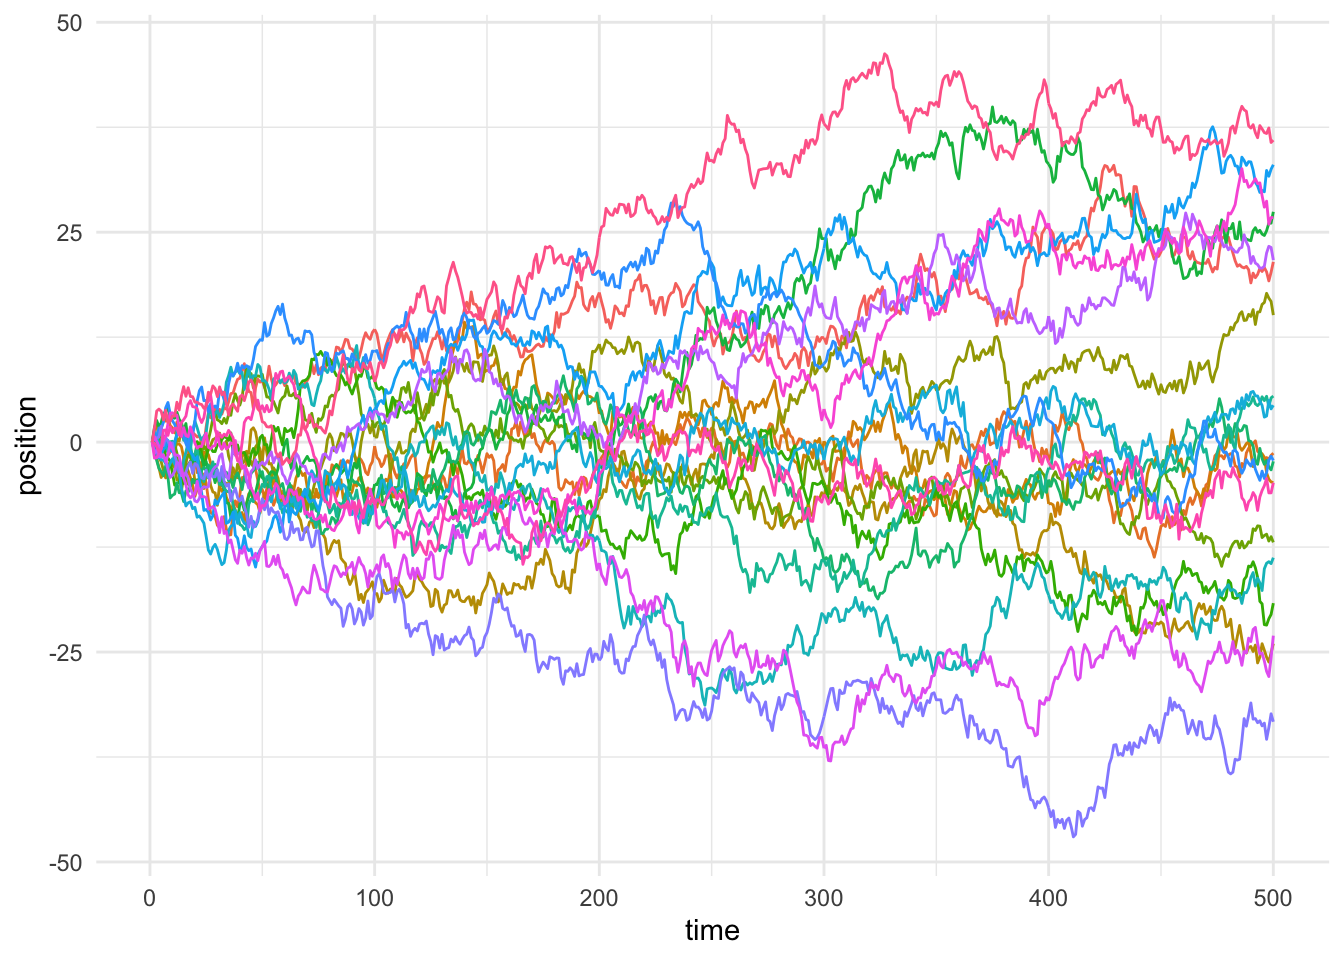
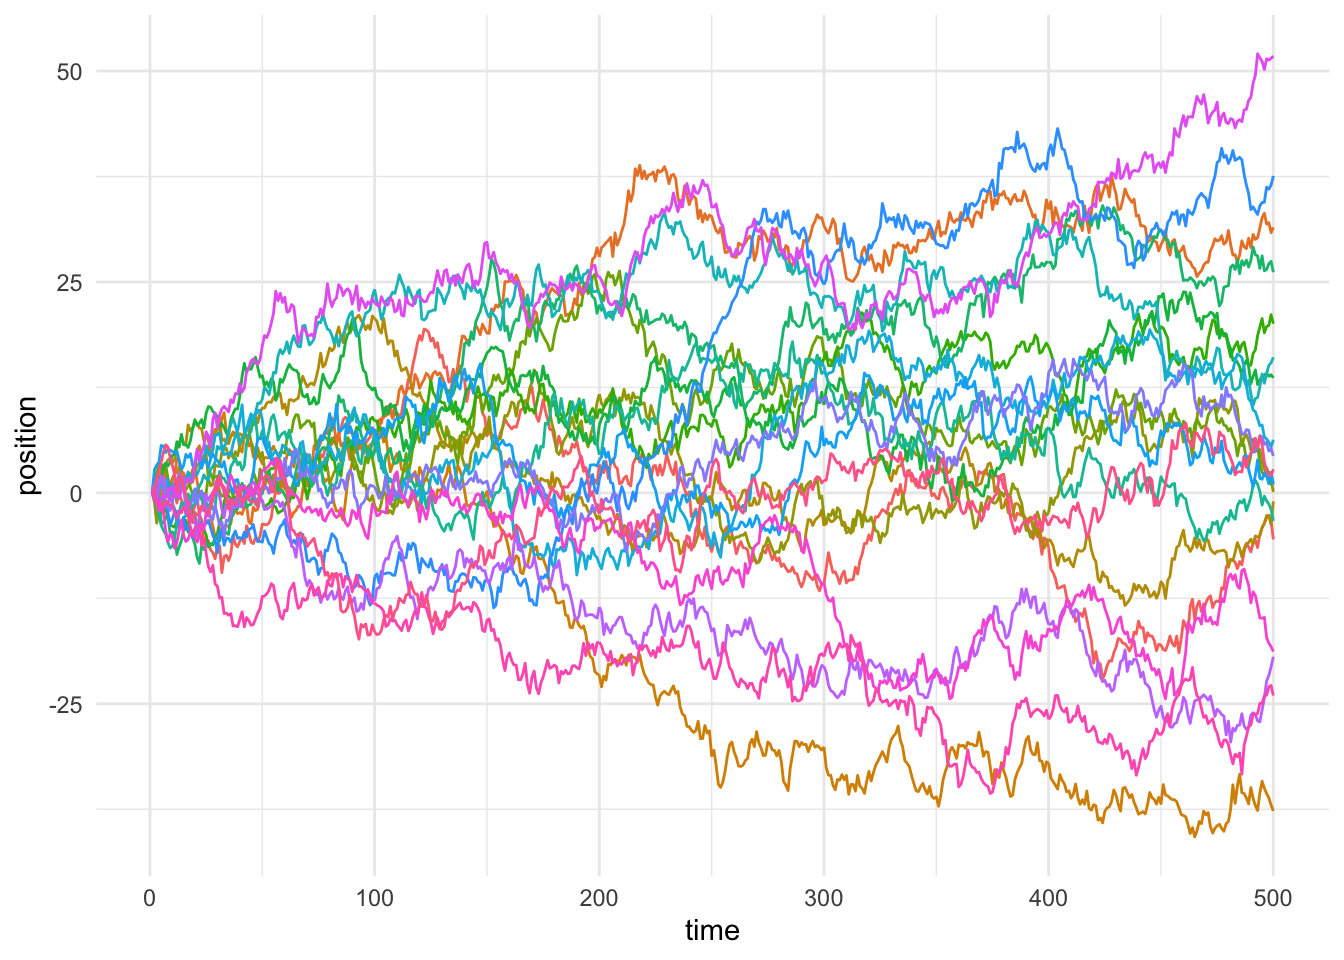
tex

diff --git a/docs/posts/2021-01-13-a-gentle-introduction-to-markov-chains-and-mcmc/index.html b/docs/posts/2021-01-13-a-gentle-introduction-to-markov-chains-and-mcmc/index.html
@@ -255,7 +255,7 @@ ga('send', {
 </section>
 <section id="markov-chains" class="level1">
 <h1>Markov Chains</h1>
-<p>First, what is a Markov Chain? It’s easiest to break it down into it’s component parts. A <strong>Markov Chain</strong> is a <em>chain</em>, or sequence of events, that follow the Markov Property. And the Markov Property is pretty intuitive: The <strong>Markov Property</strong> says that the next state in a sequence (chain) is only dependent on the current state. Statisticians would call this “memorylessness,” and we can write out the property in its true mathematical form below, where $ X $ is a random variable and $ x_{t} $ is the probability distribution that $ X $ takes on at time $ t $.</p>
+<p>First, what is a Markov Chain? It’s easiest to break it down into it’s component parts. A <strong>Markov Chain</strong> is a <em>chain</em>, or sequence of events, that follow the Markov Property. And the Markov Property is pretty intuitive: The <strong>Markov Property</strong> says that the next state in a sequence (chain) is only dependent on the current state. Statisticians would call this “memorylessness,” and we can write out the property in its true mathematical form below, where <span class="math inline">\(X\)</span> is a random variable and <span class="math inline">\(x\_{t}\)</span> is the probability distribution that <span class="math inline">\(X\)</span> takes on at time <span class="math inline">\(t\)</span>.</p>
 <p><span class="math display">\[
 p(x_{t+1} | x_{t}, x_{t-1}, x_{t-2}, .. x_{0}) = p(x_{t+1} | x_{t})
 \]</span></p>
@@ -283,16 +283,16 @@ p(x_{t+1} | x_{t}, x_{t-1}, x_{t-2}, .. x_{0}) = p(x_{t+1} | x_{t})
 <pre><code># A tibble: 100 × 1
    position
       &lt;dbl&gt;
- 1   0     
- 2  -0.420 
- 3   0.520 
- 4  -0.414 
- 5   0.0104
- 6  -2.16  
- 7  -0.695 
- 8  -2.04  
- 9  -0.607 
-10   0.717 
+ 1    0    
+ 2   -0.372
+ 3    0.394
+ 4   -0.237
+ 5    0.849
+ 6   -0.446
+ 7    0.660
+ 8   -0.321
+ 9   -1.74 
+10   -2.70 
 # … with 90 more rows</code></pre>
 </div>
 </div>
@@ -307,12 +307,12 @@ p(x_{t+1} | x_{t}, x_{t-1}, x_{t-2}, .. x_{0}) = p(x_{t+1} | x_{t})
 <div class="cell-output-display">
 <div class="quarto-figure quarto-figure-center">
 <figure class="figure">
-<p><img src="static/rmarkdown-libsunnamed-chunk-6-1.png" class="img-fluid figure-img" width="672"></p>
+<p><img src="static/rmarkdown-libsunnamed-chunk-3-1.png" class="img-fluid figure-img" width="672"></p>
 </figure>
 </div>
 </div>
 </div>
-<p>Cool! The walk starts at $ 0 $, and then jumps around randomly a bunch until $ t=100 $. It’ll be more interesting once we simulate 20 random walks.</p>
+<p>Cool! The walk starts at 0, and then jumps around randomly a bunch until <span class="math inline">\(t=100\)</span>. It’ll be more interesting once we simulate 20 random walks.</p>
 <div class="cell" data-layout-align="center">
 <div class="sourceCode cell-code" id="cb4"><pre class="sourceCode r code-with-copy"><code class="sourceCode r"><span id="cb4-1"><a href="#cb4-1" aria-hidden="true" tabindex="-1"></a>n_steps <span class="ot">&lt;-</span> <span class="dv">500</span></span>
 <span id="cb4-2"><a href="#cb4-2" aria-hidden="true" tabindex="-1"></a>n_chains <span class="ot">&lt;-</span> <span class="dv">20</span></span>
@@ -339,13 +339,13 @@ p(x_{t+1} | x_{t}, x_{t-1}, x_{t-2}, .. x_{0}) = p(x_{t+1} | x_{t})
 <div class="cell-output-display">
 <div class="quarto-figure quarto-figure-center">
 <figure class="figure">
-<p><img src="static/rmarkdown-libsunnamed-chunk-8-1.png" class="img-fluid figure-img" width="672"></p>
+<p><img src="static/rmarkdown-libsunnamed-chunk-4-1.png" class="img-fluid figure-img" width="672"></p>
 </figure>
 </div>
 </div>
 </div>
-<p>So, what’s going on here? It basically looks how we’d expect. At any given time point, the mean position of the $ 20 $ is about zero, but the standard deviation of those positions goes up over time. Specifically, at any given time $ t $, the standard deviation of the positions should be roughly equal to $ t $, because of how the variance is compounding. Remember, these random walks are Markov Chains because at every time $ t$, I defined the position $ y_{t+1} $ to be $ y_{t} + (0, 1) $, or the the next position is the current position plus a standard normal noise (i.e.&nbsp;zero-centered with unit variance).</p>
-<p>Cool, so now we have an idea of what a Markov Chain is and how a random walk is an example of one. Now, why do we care? What kinds of problems can we solve with Markov Chains? It turns out that one thing we can use them to do is to calculate intractable integrals. What does this mean? Well, remembering back to a calculus class once upon a time, we know if we have some function $ f(x) = 2x $, we can integrate that function by following a one of a couple of rules. In this case, that rule is to raise the coefficient in front of the $ x $ to turn it into a power, such that the new exponent equals the old one plus one, and the new coefficient equals the old one divided by the new exponent. For $ f(x) $, we find $ F(x) = f(x) = x^{2} + c $, where $ c $ is a constant. However, in many applications, such as Bayesian statistics, we run into functions of hundreds or thousands of parameters that are intractable to integrate. In other words, even really, really powerful calculators can’t integrate them: there are just too many parameters. So, we’re stuck. How do we integrate a function that even a super powerful calculator can’t? In steps Markov Chain Monte Carlo, coming to the rescue.</p>
+<p>So, what’s going on here? It basically looks how we’d expect. At any given time point, the mean position of the 20 is about zero, but the standard deviation of those positions goes up over time. Specifically, at any given time <span class="math inline">\(t\)</span>, the standard deviation of the positions should be roughly equal to <span class="math inline">\(\sqrt t\)</span>, because of how the variance is compounding. Remember, these random walks are Markov Chains because at every time <span class="math inline">\(t\)</span>, I defined the position <span class="math inline">\(y\_{t+1}\)</span> to be <span class="math inline">\(y\_{t} + \mathcal{N}(0, 1)\)</span>, or the the next position is the current position plus a standard normal noise (i.e.&nbsp;zero-centered with unit variance).</p>
+<p>Cool, so now we have an idea of what a Markov Chain is and how a random walk is an example of one. Now, why do we care? What kinds of problems can we solve with Markov Chains? It turns out that one thing we can use them to do is to calculate intractable integrals. What does this mean? Well, remembering back to a calculus class once upon a time, we know if we have some function <span class="math inline">\(f(x) = 2x\)</span>, we can integrate that function by following a one of a couple of rules. In this case, that rule is to raise the coefficient in front of the <span class="math inline">\(x\)</span> to turn it into a power, such that the new exponent equals the old one plus one, and the new coefficient equals the old one divided by the new exponent. For <span class="math inline">\(f(x)\)</span>, we find <span class="math inline">\(F(x) = \int f(x) = x^{2} + c\)</span>, where <span class="math inline">\(c\)</span> is a constant. However, in many applications, such as Bayesian statistics, we run into functions of hundreds or thousands of parameters that are intractable to integrate. In other words, even really, really powerful calculators can’t integrate them: there are just too many parameters. So, we’re stuck. How do we integrate a function that even a super powerful calculator can’t? In steps Markov Chain Monte Carlo, coming to the rescue.</p>
 </section>
 <section id="markov-chain-monte-carlo" class="level1">
 <h1>Markov Chain Monte Carlo</h1>
@@ -405,12 +405,12 @@ p(x_{t+1} | x_{t}, x_{t-1}, x_{t-2}, .. x_{0}) = p(x_{t+1} | x_{t})
   island days_spent day_proportion
    &lt;dbl&gt;      &lt;int&gt;          &lt;dbl&gt;
 1      1          1            0.1
-2      2          2            0.2
-3      3          3            0.3
-4      4          4            0.4</code></pre>
+2      2          1            0.1
+3      3          2            0.2
+4      4          6            0.6</code></pre>
 </div>
 </div>
-<p>Unsurprisingly, with only $ 10 $ iterations the algorithm does not perform particularly well. But what about if we give it a lot more time? Let’s try $ 10,000 $ iterations.</p>
+<p>Unsurprisingly, with only 10 iterations the algorithm does not perform particularly well. But what about if we give it a lot more time? Let’s try 10,000 iterations.</p>
 <div class="cell" data-layout-align="center">
 <div class="sourceCode cell-code" id="cb8"><pre class="sourceCode r code-with-copy"><code class="sourceCode r"><span id="cb8-1"><a href="#cb8-1" aria-hidden="true" tabindex="-1"></a>some_islands <span class="ot">&lt;-</span> <span class="fu">run_rwmh</span>(<span class="at">n_iters =</span> <span class="dv">10000</span>) <span class="sc">%&gt;%</span></span>
 <span id="cb8-2"><a href="#cb8-2" aria-hidden="true" tabindex="-1"></a>  <span class="fu">tibble</span>(<span class="at">island =</span> .) <span class="sc">%&gt;%</span></span>
@@ -426,13 +426,13 @@ p(x_{t+1} | x_{t}, x_{t-1}, x_{t-2}, .. x_{0}) = p(x_{t+1} | x_{t})
 <pre><code># A tibble: 4 × 4
   island days_spent day_proportion error_margin
    &lt;dbl&gt;      &lt;int&gt;          &lt;dbl&gt;        &lt;dbl&gt;
-1      1        980          0.098    -0.0200  
-2      2       2009          0.201     0.00450 
-3      3       2999          0.300    -0.000333
-4      4       4012          0.401     0.00300 </code></pre>
+1      1       1011          0.101       0.0110
+2      2       1954          0.195      -0.0230
+3      3       2964          0.296      -0.0120
+4      4       4071          0.407       0.0177</code></pre>
 </div>
 </div>
-<p>Much better! After $ 10,000 $ iterations, we’re spending almost the exact proportion of time on each island that we want to be, as evidenced by the tiny error margins. In addition, the standard deviation of the error margins is 0.01138, which is tiny. That’s awesome! But what about if the system is more complex? Like, what if we had 100 islands?</p>
+<p>Much better! After 10,000 iterations, we’re spending almost the exact proportion of time on each island that we want to be, as evidenced by the tiny error margins. In addition, the standard deviation of the error margins is 0.01914, which is tiny. That’s awesome! But what about if the system is more complex? Like, what if we had 100 islands?</p>
 <div class="cell" data-layout-align="center">
 <div class="sourceCode cell-code" id="cb10"><pre class="sourceCode r code-with-copy"><code class="sourceCode r"><span id="cb10-1"><a href="#cb10-1" aria-hidden="true" tabindex="-1"></a>more_islands <span class="ot">&lt;-</span> <span class="fu">run_rwmh</span>(<span class="at">n_iters =</span> <span class="dv">10000</span>, <span class="at">island_populations =</span> <span class="dv">1</span><span class="sc">:</span><span class="dv">100</span>) <span class="sc">%&gt;%</span></span>
 <span id="cb10-2"><a href="#cb10-2" aria-hidden="true" tabindex="-1"></a>  <span class="fu">tibble</span>(<span class="at">island =</span> .) <span class="sc">%&gt;%</span></span>
@@ -448,20 +448,20 @@ p(x_{t+1} | x_{t}, x_{t-1}, x_{t-2}, .. x_{0}) = p(x_{t+1} | x_{t})
 <pre><code># A tibble: 100 × 4
    island days_spent day_proportion error_margin
     &lt;dbl&gt;      &lt;int&gt;          &lt;dbl&gt;        &lt;dbl&gt;
- 1      1          2         0.0002       0.0100
- 2      2          3         0.0003      -0.243 
+ 1      1          1         0.0001      -0.495 
+ 2      2          6         0.0006       0.515 
  3      3          5         0.0005      -0.158 
- 4      4         10         0.001        0.262 
- 5      5         12         0.0012       0.212 
- 6      6         11         0.0011      -0.0742
- 7      7         16         0.0016       0.154 
- 8      8         18         0.0018       0.136 
- 9      9         12         0.0012      -0.327 
-10     10         13         0.0013      -0.344 
+ 4      4          4         0.0004      -0.495 
+ 5      5         14         0.0014       0.414 
+ 6      6         14         0.0014       0.178 
+ 7      7         21         0.0021       0.515 
+ 8      8         19         0.0019       0.199 
+ 9      9         16         0.0016      -0.102 
+10     10         19         0.0019      -0.0405
 # … with 90 more rows</code></pre>
 </div>
 </div>
-<p>No problem! Even with the extra islands, the mean error margin is still zero, and the standard deviation of the error margins is 0.14674, which is also small, but not as small as the simpler system. It’s true that a more complex system (i.e.&nbsp;more islands) would mean that we need more iterations to converge in probability to the proportions we’re shooting for, but the algorithm will still work with enough time. Let’s try running it one more time on the complex system, but this time with a million iterations.</p>
+<p>No problem! Even with the extra islands, the mean error margin is still zero, and the standard deviation of the error margins is 0.17025, which is also small, but not as small as the simpler system. It’s true that a more complex system (i.e.&nbsp;more islands) would mean that we need more iterations to converge in probability to the proportions we’re shooting for, but the algorithm will still work with enough time. Let’s try running it one more time on the complex system, but this time with a million iterations.</p>
 <div class="cell" data-layout-align="center">
 <div class="sourceCode cell-code" id="cb12"><pre class="sourceCode r code-with-copy"><code class="sourceCode r"><span id="cb12-1"><a href="#cb12-1" aria-hidden="true" tabindex="-1"></a>more_iters <span class="ot">&lt;-</span> <span class="fu">run_rwmh</span>(<span class="at">n_iters =</span> <span class="dv">1000000</span>, <span class="at">island_populations =</span> <span class="dv">1</span><span class="sc">:</span><span class="dv">100</span>) <span class="sc">%&gt;%</span></span>
 <span id="cb12-2"><a href="#cb12-2" aria-hidden="true" tabindex="-1"></a>  <span class="fu">tibble</span>(<span class="at">island =</span> .) <span class="sc">%&gt;%</span></span>
@@ -477,20 +477,20 @@ p(x_{t+1} | x_{t}, x_{t-1}, x_{t-2}, .. x_{0}) = p(x_{t+1} | x_{t})
 <pre><code># A tibble: 100 × 4
    island days_spent day_proportion error_margin
     &lt;dbl&gt;      &lt;int&gt;          &lt;dbl&gt;        &lt;dbl&gt;
- 1      1        196       0.000196     -0.0102 
- 2      2        425       0.000425      0.0731 
- 3      3        625       0.000625      0.0521 
- 4      4        840       0.00084       0.0605 
- 5      5       1041       0.00104       0.0514 
- 6      6       1183       0.00118      -0.00431
- 7      7       1395       0.00140       0.00639
- 8      8       1613       0.00161       0.0182 
- 9      9       1775       0.00178      -0.00403
-10     10       2060       0.00206       0.0403 
+ 1      1        198       0.000198    -0.000100
+ 2      2        406       0.000406     0.0252  
+ 3      3        625       0.000625     0.0521  
+ 4      4        813       0.000813     0.0264  
+ 5      5        996       0.000996     0.00596 
+ 6      6       1149       0.00115     -0.0329  
+ 7      7       1374       0.00137     -0.00876 
+ 8      8       1537       0.00154     -0.0298  
+ 9      9       1783       0.00178      0.000461
+10     10       1978       0.00198     -0.00111 
 # … with 90 more rows</code></pre>
 </div>
 </div>
-<p>Looks like that did the trick! The standard deviation of the error margins fell to 0.01702, just as we expected.</p>
+<p>Looks like that did the trick! The standard deviation of the error margins fell to 0.01407, just as we expected.</p>
 <p>This algorithm is called the Metropolis-Hastings Algorithm, and it’s one of many in the class of Markov Chain Monte Carlo algorithms. Some others are the Gibbs Sampler and Hamiltonian Monte Carlo, both of which are frequently used in Bayesian statistics for estimating the parameters of regression models with hundreds of thousands of parameters. In short, these algorithms allow us to solve problems that were literally impossible to solve only two decades ago or so, which is an amazing feat!</p>
 </section>
 <section id="recap" class="level1">

diff --git a/docs/posts/2023-03-09-on-auc-roc/index.html b/docs/posts/2023-03-09-on-auc-roc/index.html
@@ -144,6 +144,7 @@ ga('send', {
 <script src="../../site_libs/kePrint-0.0.1/kePrint.js"></script>
 <link href="../../site_libs/lightable-0.0.1/lightable.css" rel="stylesheet">
 
+  <script src="https://cdn.jsdelivr.net/npm/mathjax@3/es5/tex-chtml-full.js" type="text/javascript"></script>
 
 <link rel="stylesheet" href="../../styles.css">
 </head>
@@ -259,7 +260,7 @@ ga('send', {
 <section id="what-is-auc" class="level2">
 <h2 class="anchored" data-anchor-id="what-is-auc">What is AUC?</h2>
 <p>As I mentioned, it’s usually not helpful to try to explain AUC to someone by telling them that it’s just the area under the ROC curve, or that it’s a metric you can use for predicting <em>probabilities</em> as opposed to predicting <em>classes</em>, or that it’s a metric trying to balance false positives and false negatives. None of those things get to the crux of the problem.</p>
-<p>So what <em>is</em> AUC, then? It’s pretty simple: Let’s imagine a model $ M $ being evaluated on data $ X $ where $ X $ contains some instances of the true class and some instances of the false class. The AUC of $ M $ on $ X $ is the probability that given a random item from $ X $ belonging to the <em>true</em> class ($ T $) and another random item from $ X $ belonging to the <em>false</em> class ($ F $), that the model predicts that the probability of $ T $ being true (belonging to the true class) is higher than the probability of $ F $ being true (belonging to the true class).</p>
+<p>So what <em>is</em> AUC, then? It’s pretty simple: Let’s imagine a model <span class="math inline">\(M\)</span> being evaluated on data <span class="math inline">\(X\)</span> where <span class="math inline">\(X\)</span> contains some instances of the true class and some instances of the false class. The AUC of <span class="math inline">\(M\)</span> on <span class="math inline">\(X\)</span> is the probability that given a random item from <span class="math inline">\(X\)</span> belonging to the <em>true</em> class (<span class="math inline">\(T\)</span>) and another random item from <span class="math inline">\(X\)</span> belonging to the <em>false</em> class (<span class="math inline">\(F\)</span>), that the model predicts that the probability of <span class="math inline">\(T\)</span> being true (belonging to the true class) is higher than the probability of <span class="math inline">\(F\)</span> being true (belonging to the true class).</p>
 <p>Let’s go back to the example about Carleton admissions, and let’s imagine that we have a model that gives a probability of admission to Carleton given some information about a student. If I give the model one random <em>accepted</em> student and one random <em>rejected</em> student, the AUC of the model is the probability that the accepted student had a higher chance of acceptance (as estimated by the model) than the rejected student did.</p>
 <p>For more on this, I’d refer everyone to <a href="https://developers.google.com/machine-learning/crash-course/classification/roc-and-auc">this fantastic blog post</a> by the team at Google, which does a great job at explaining further and/or better.</p>
 </section>
@@ -336,9 +337,14 @@ ga('send', {
  </thead>
 <tbody>
   <tr>
+   <td style="text-align:left;"> 1 </td>
+   <td style="text-align:right;"> 22.8 </td>
+   <td style="text-align:right;"> 4 </td>
+  </tr>
+  <tr>
    <td style="text-align:left;"> 0 </td>
-   <td style="text-align:right;"> 19.7 </td>
-   <td style="text-align:right;"> 6 </td>
+   <td style="text-align:right;"> 15.8 </td>
+   <td style="text-align:right;"> 8 </td>
   </tr>
   <tr>
    <td style="text-align:left;"> 0 </td>
@@ -347,23 +353,18 @@ ga('send', {
   </tr>
   <tr>
    <td style="text-align:left;"> 1 </td>
-   <td style="text-align:right;"> 22.8 </td>
-   <td style="text-align:right;"> 4 </td>
-  </tr>
-  <tr>
-   <td style="text-align:left;"> 1 </td>
-   <td style="text-align:right;"> 33.9 </td>
+   <td style="text-align:right;"> 30.4 </td>
    <td style="text-align:right;"> 4 </td>
   </tr>
   <tr>
    <td style="text-align:left;"> 0 </td>
-   <td style="text-align:right;"> 19.2 </td>
+   <td style="text-align:right;"> 14.3 </td>
    <td style="text-align:right;"> 8 </td>
   </tr>
   <tr>
-   <td style="text-align:left;"> 1 </td>
-   <td style="text-align:right;"> 27.3 </td>
-   <td style="text-align:right;"> 4 </td>
+   <td style="text-align:left;"> 0 </td>
+   <td style="text-align:right;"> 15.2 </td>
+   <td style="text-align:right;"> 8 </td>
   </tr>
 </tbody>
 </table>

diff --git a/docs/posts.html b/docs/posts.html
@@ -220,7 +220,7 @@ ga('send', {
     </div>
 </div>
 <div class="list quarto-listing-default">
-<div class="quarto-post image-right" data-index="0" data-categories="data science" data-listing-date-sort="1678338000000" data-listing-file-modified-sort="1679197909107" data-listing-reading-time-sort="9.24">
+<div class="quarto-post image-right" data-index="0" data-categories="data science" data-listing-date-sort="1678338000000" data-listing-file-modified-sort="1679199343528" data-listing-reading-time-sort="9.13">
 <div class="body">
 <a href="./posts/2023-03-09-on-auc-roc/index.html">
 <h3 class="no-anchor listing-title">
@@ -608,7 +608,7 @@ Feb 7, 2021
 </a>
 </div>
 </div>
-<div class="quarto-post image-right" data-index="11" data-categories="data science" data-listing-date-sort="1610514000000" data-listing-file-modified-sort="1679196836092" data-listing-reading-time-sort="10.025">
+<div class="quarto-post image-right" data-index="11" data-categories="data science" data-listing-date-sort="1610514000000" data-listing-file-modified-sort="1679199610224" data-listing-reading-time-sort="9.83">
 <div class="body">
 <a href="./posts/2021-01-13-a-gentle-introduction-to-markov-chains-and-mcmc/index.html">
 <h3 class="no-anchor listing-title">
@@ -635,7 +635,7 @@ Every other Friday at work we have a meeting called All Hands. During the first 
 Jan 13, 2021
 </div>
 <div class="listing-reading-time">
-10 min
+9 min
 </div>
 </a>
 </div>
